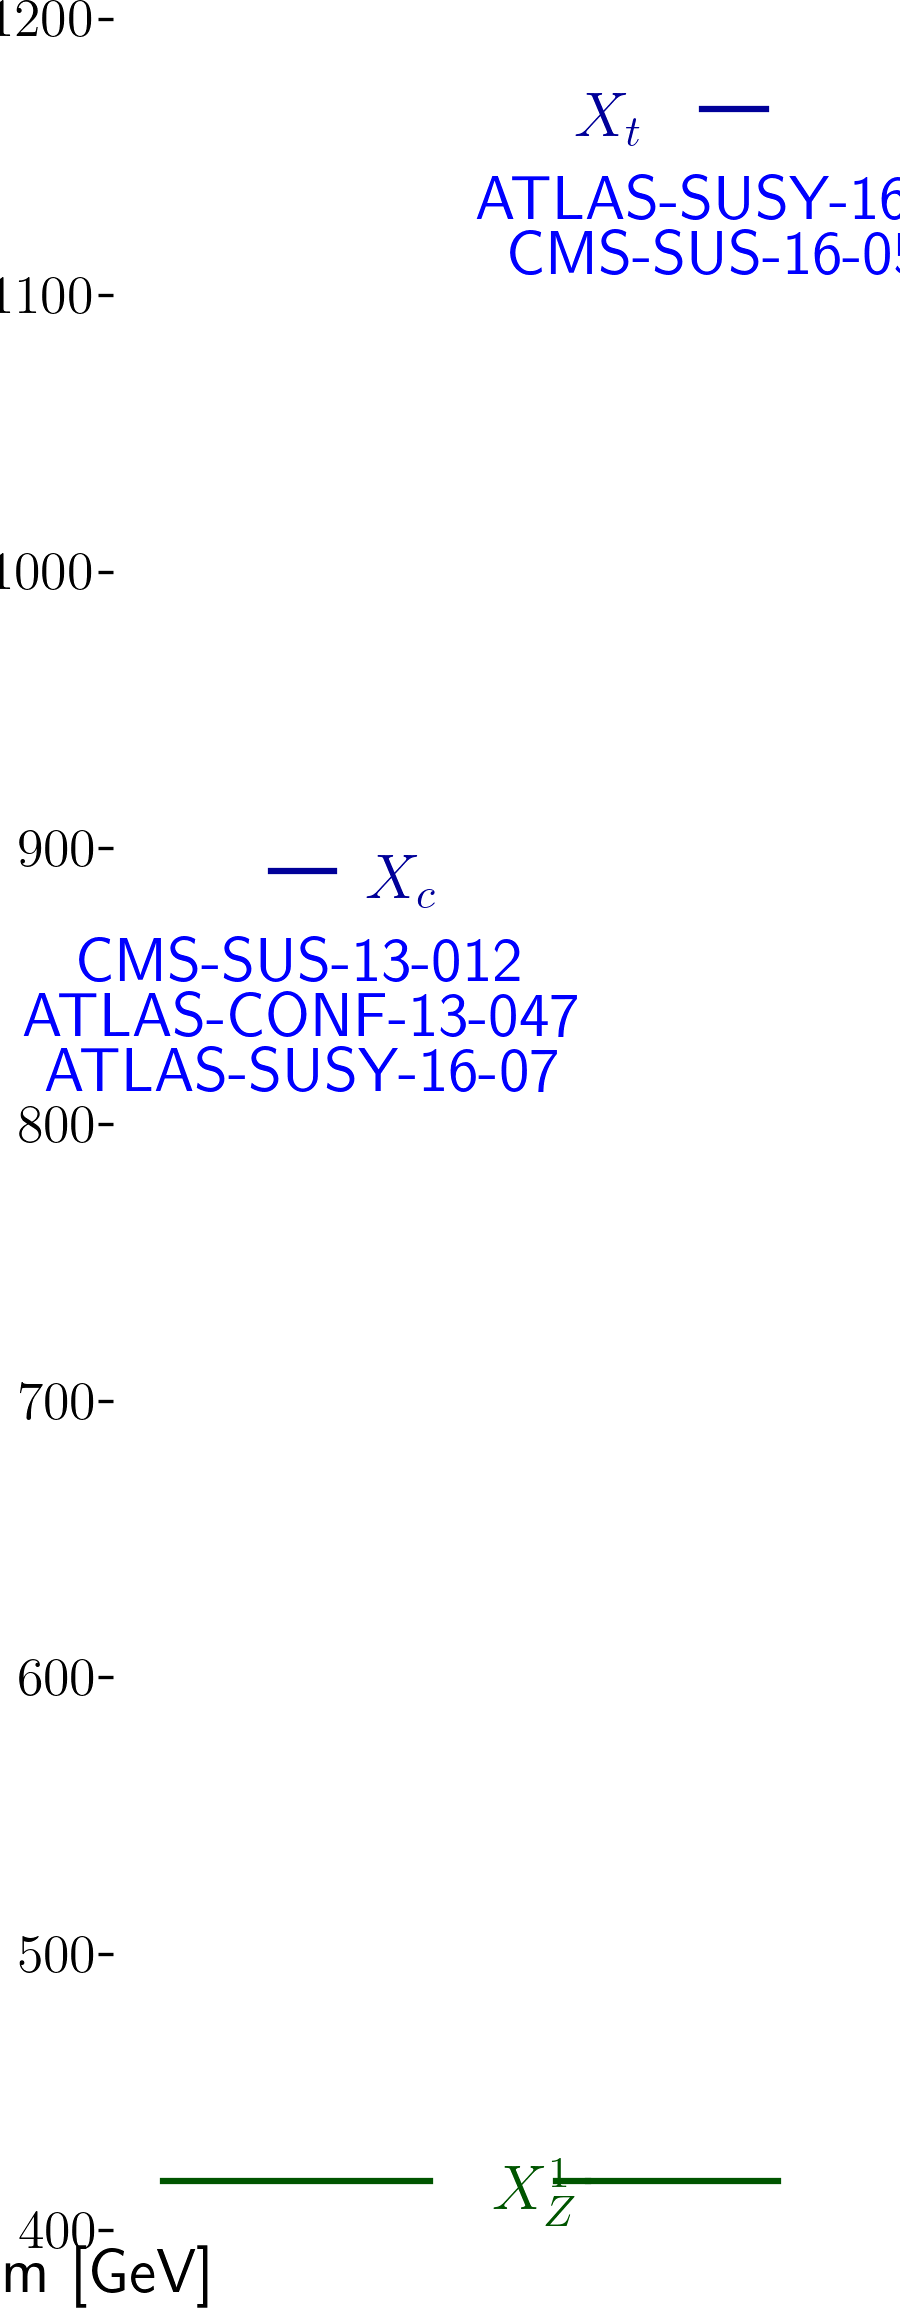
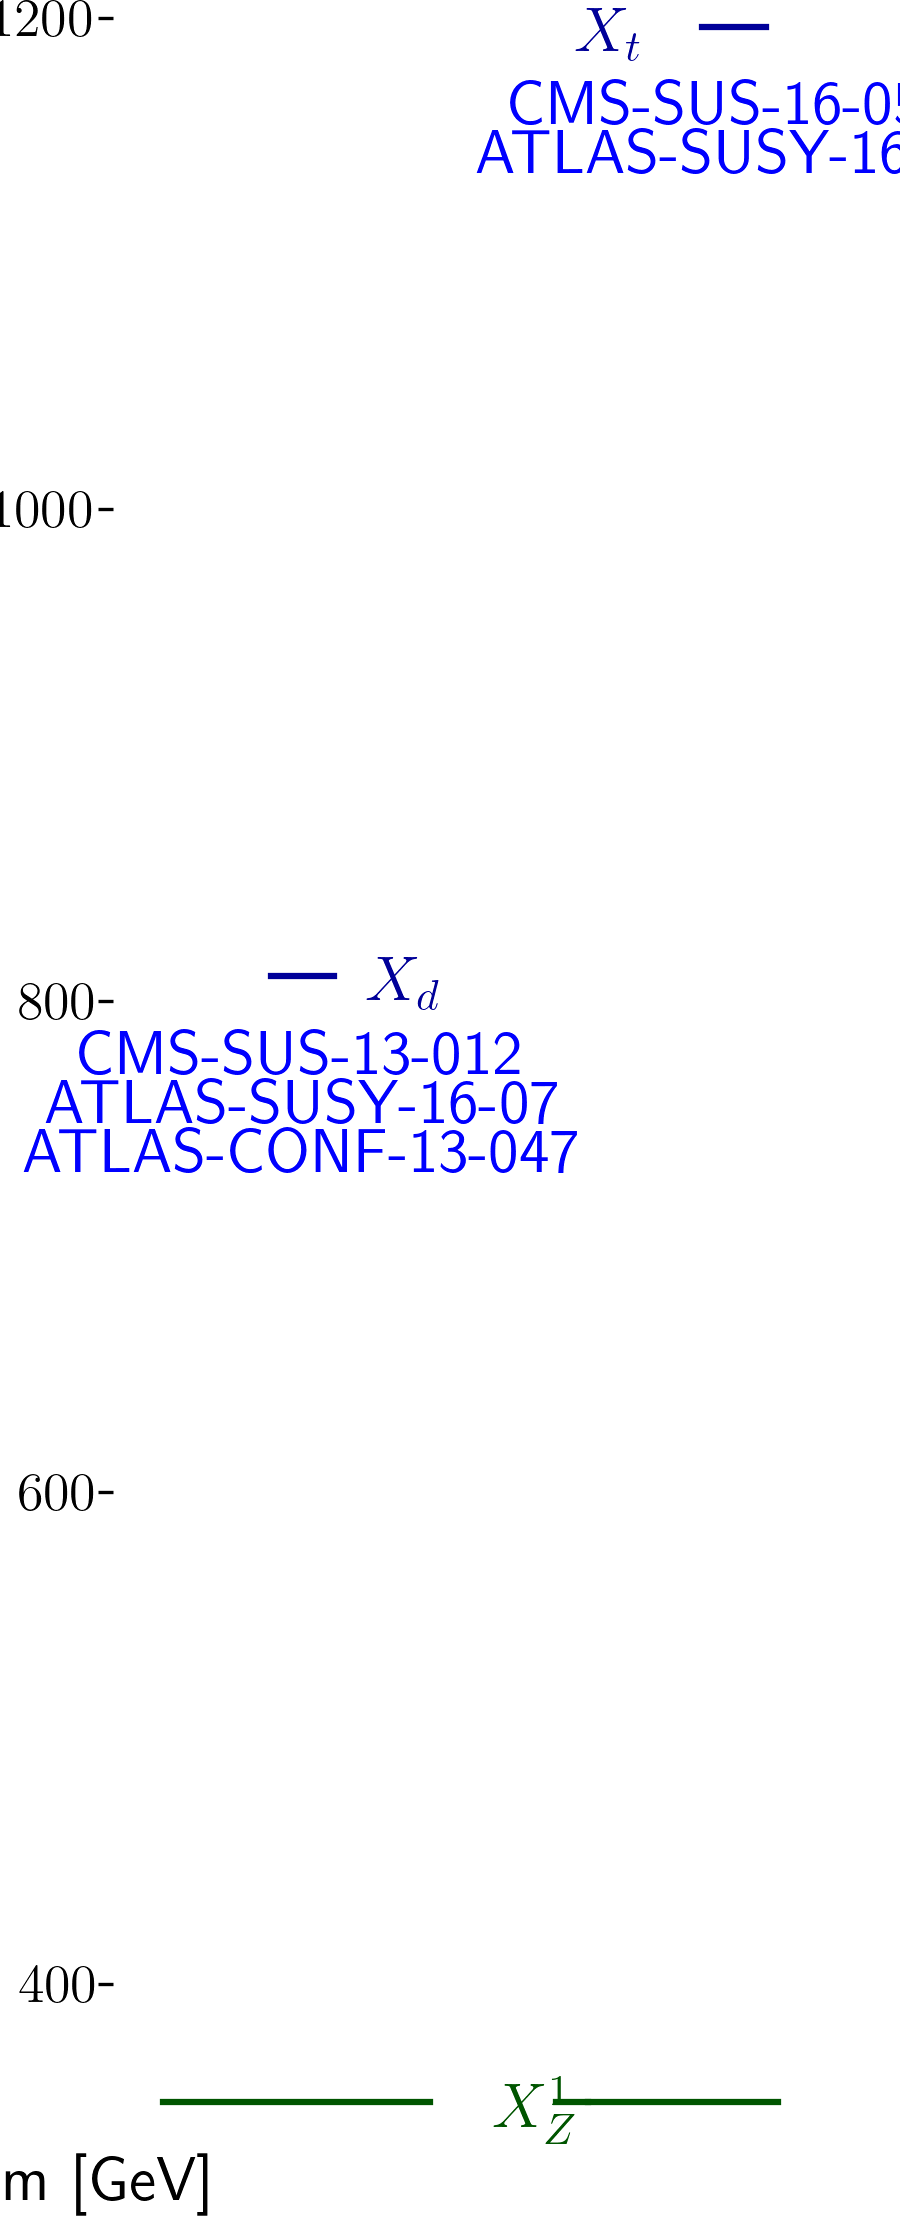
automated update by plotHiscore.py

diff --git a/protomodels/latest/index.html b/protomodels/latest/index.html
@@ -1,29 +1,28 @@
 <html>
 <body>
 <center>
-<table><td><h1>Current best protomodel: K=5.62</h1><td><img height=60px src=https://smodels.github.io/pics/banner.png></table>
+<table><td><h1>Current best protomodel: K=6.43</h1><td><img height=60px src=https://smodels.github.io/pics/banner.png></table>
 </center>
-<b><a href=./hiscore.slha>ProtoModel</a> <a href=./pmodel.py>(dict)</a> produced with <a href=https://smodels.github.io/docs/Validation123>database v1.2.3</a>, combination strategy <a href=./matrix_aggressive.png>aggressive</a> in walker 44 step 40.</b> K plots for: <a href=./M1000022.png?4390431>X<sub>Z</sub><sup>1</sup></a>, <a href=./M1000001.png?4390431>X<sub>d</sub></a>. HPD plots for: <a href=./llhd1000001.png?4390431>X<sub>d</sub></a>. SSM plots for: <a href=./ssm_-1000006_1000006.png?4390431>(x&#772;<sub>t</sub>,X<sub>t</sub>)</a><br>
+<b><a href=./hiscore.slha>ProtoModel</a> <a href=./pmodel.py>(dict)</a> produced with <a href=https://smodels.github.io/docs/Validation123>database v1.2.3</a>, combination strategy <a href=./matrix_aggressive.png>aggressive</a> in walker 26 step 16.</b> K plots for: <a href=./M1000022.png?4397320>X<sub>Z</sub><sup>1</sup></a>, <a href=./M1000001.png?4397320>X<sub>d</sub></a>. HPD plots for: <a href=./llhd1000001.png?4397320>X<sub>d</sub></a>. SSM plots for: <a href=./ssm_-1000006_1000006.png?4397320>(x&#772;<sub>t</sub>,X<sub>t</sub>)</a><br>
 <table width=80%>
 <tr><td>
-<br><b>28 predictions available. Highest r values are:</b><br><ul>
-<li><a href=http://cms-results.web.cern.ch/cms-results/public-results/publications/SUS-19-006/index.html>CMS-SUS-19-006</a>:T2 r=1.30, r<sub>exp</sub>=1.16<br>
-<li><a href=http://cms-results.web.cern.ch/cms-results/public-results/publications/SUS-16-033/index.html>CMS-SUS-16-033</a>:T2 r=1.25, r<sub>exp</sub>=0.87<br>
-<li><a href=http://cms-results.web.cern.ch/cms-results/public-results/publications/SUS-16-036/index.html>CMS-SUS-16-036</a>:T2 r=0.93, r<sub>exp</sub>=0.77<br>
-<li><a href=http://cms-results.web.cern.ch/cms-results/public-results/publications/SUS-19-006/index.html>CMS-SUS-19-006</a>:T2tt r=0.85, r<sub>exp</sub>=0.75<br>
-<li><a href=https://atlas.web.cern.ch/Atlas/GROUPS/PHYSICS/PAPERS/SUSY-2016-26/>ATLAS-SUSY-2016-26</a>:T2cc r=0.81, r<sub>exp</sub>=N/A<br>
+<br><b>27 predictions available. Highest r values are:</b><br><ul>
+<li><a href=http://cms-results.web.cern.ch/cms-results/public-results/publications/SUS-19-006/index.html>CMS-SUS-19-006</a>:T2 r=1.30, r<sub>exp</sub>=1.14<br>
+<li><a href=http://cms-results.web.cern.ch/cms-results/public-results/publications/SUS-16-033/index.html>CMS-SUS-16-033</a>:T2 r=1.29, r<sub>exp</sub>=0.86<br>
+<li><a href=http://cms-results.web.cern.ch/cms-results/public-results/publications/SUS-19-006/index.html>CMS-SUS-19-006</a>:T2tt r=1.17, r<sub>exp</sub>=1.10<br>
+<li><a href=http://cms-results.web.cern.ch/cms-results/public-results/publications/SUS-16-036/index.html>CMS-SUS-16-036</a>:T2 r=0.96, r<sub>exp</sub>=0.74<br>
+<li><a href=http://cms-results.web.cern.ch/cms-results/public-results/publications/SUS-16-051/index.html>CMS-SUS-16-051</a>:T2tt r=0.85, r<sub>exp</sub>=0.56<br>
 </ul>
 <td><br><b>Contributions per analysis:</b><br>
 <ul>
-<li> <a href=>CMS-SUS-16-033</a>: 33%
-<li> <a href=https://atlas.web.cern.ch/Atlas/GROUPS/PHYSICS/CONFNOTES/ATLAS-CONF-2013-047/>ATLAS-CONF-2013-047</a>: 32%
-<li> <a href=https://twiki.cern.ch/twiki/bin/view/CMSPublic/PhysicsResultsSUS13012>CMS-SUS-13-012</a>: 30%
-<li> <a href=https://atlas.web.cern.ch/Atlas/GROUPS/PHYSICS/PAPERS/SUSY-2016-07/>ATLAS-SUSY-2016-07</a>: 5%
-<td><img width=600px src=./texdoc.png?1597390431>
-<br><font size=-1>Last updated: Fri Aug 14 09:33:51 2020</font>
+<li> <a href=https://atlas.web.cern.ch/Atlas/GROUPS/PHYSICS/PAPERS/SUSY-2016-07/>ATLAS-SUSY-2016-07</a>: 2335%
+<li> <a href=https://atlas.web.cern.ch/Atlas/GROUPS/PHYSICS/CONFNOTES/ATLAS-CONF-2013-047/>ATLAS-CONF-2013-047</a>: -995%
+<li> <a href=>CMS-SUS-16-033</a>: -1240%
+<td><img width=600px src=./texdoc.png?1597397320>
+<br><font size=-1>Last updated: Fri Aug 14 11:28:40 2020</font>
 </table><table style="width:80%">
-<td width=45%><img height=580px src=./ruler.png?1597390431><td width=55%><img height=380px src=./decays.png?1597390431>
-<font size=-3><iframe type="text/html" height="220px" width="100%s" frameborder="0" src="./rawnumbers.html?1597390431"></iframe></font>
+<td width=45%><img height=580px src=./ruler.png?1597397320><td width=55%><img height=380px src=./decays.png?1597397320>
+<font size=-3><iframe type="text/html" height="220px" width="100%s" frameborder="0" src="./rawnumbers.html?1597397320"></iframe></font>
 </table>
 </body>
 </html>

diff --git a/protomodels/latest/rawnumbers.html b/protomodels/latest/rawnumbers.html
@@ -1,9 +1,9 @@
 <table>
 <tr><th>Analysis Name</th><th>Type</th><th>Dataset</th><th>Observed</th><th>Expected</th><th>Approx &sigma;</th><th>Particles</th>
 </tr>
-<tr><td><a href=https://atlas.web.cern.ch/Atlas/GROUPS/PHYSICS/PAPERS/SUSY-2016-07/>ATLAS-SUSY-2016-07</a></td><td>em</td> <td>2j_Meff_1200</td><td>611</td><td>526 +/- 31</td><td style="text-align:right">2.2 &sigma;</td><td style="text-align:right">X<sub>c</sub></td></tr>
+<tr><td><a href=https://atlas.web.cern.ch/Atlas/GROUPS/PHYSICS/PAPERS/SUSY-2016-07/>ATLAS-SUSY-2016-07</a></td><td>em</td> <td>2j_Meff_1200</td><td>611</td><td>526 +/- 31</td><td style="text-align:right">2.2 &sigma;</td><td style="text-align:right">X<sub>d</sub></td></tr>
 <tr><td><a href=https://atlas.web.cern.ch/Atlas/GROUPS/PHYSICS/PAPERS/SUSY-2016-16/>ATLAS-SUSY-2016-16</a></td><td>em</td> <td>tN_high</td><td>8</td><td>3.8 +/- 1</td><td style="text-align:right">1.9 &sigma;</td><td style="text-align:right">X<sub>t</sub></td></tr>
-<tr><td><a href=http://cms-results.web.cern.ch/cms-results/public-results/publications/SUS-16-050/index.html>CMS-SUS-16-050</a></td><td>ul</td> <td>-</td><td> 5.3 fb </td><td> 3.1 fb</td><td style="text-align:right">1.4 &sigma;</td><td style="text-align:right">X<sub>t</sub></td></tr>
-<tr><td><a href=https://atlas.web.cern.ch/Atlas/GROUPS/PHYSICS/CONFNOTES/ATLAS-CONF-2013-047/>ATLAS-CONF-2013-047</a></td><td>em</td> <td>E Loose</td><td>166</td><td>113 +/- 21</td><td style="text-align:right">2.3 &sigma;</td><td style="text-align:right">X<sub>c</sub></td></tr>
-<tr><td><a href=https://twiki.cern.ch/twiki/bin/view/CMSPublic/PhysicsResultsSUS13012>CMS-SUS-13-012</a></td><td>ul</td> <td>-</td><td> 32.1 fb </td><td> 19.4 fb</td><td style="text-align:right">1.3 &sigma;</td><td style="text-align:right">X<sub>c</sub></td></tr>
+<tr><td><a href=http://cms-results.web.cern.ch/cms-results/public-results/publications/SUS-16-050/index.html>CMS-SUS-16-050</a></td><td>ul</td> <td>-</td><td> 4.9 fb </td><td> 2.8 fb</td><td style="text-align:right">1.5 &sigma;</td><td style="text-align:right">X<sub>t</sub></td></tr>
+<tr><td><a href=https://atlas.web.cern.ch/Atlas/GROUPS/PHYSICS/CONFNOTES/ATLAS-CONF-2013-047/>ATLAS-CONF-2013-047</a></td><td>em</td> <td>E Loose</td><td>166</td><td>113 +/- 21</td><td style="text-align:right">2.3 &sigma;</td><td style="text-align:right">X<sub>d</sub></td></tr>
+<tr><td><a href=https://twiki.cern.ch/twiki/bin/view/CMSPublic/PhysicsResultsSUS13012>CMS-SUS-13-012</a></td><td>ul</td> <td>-</td><td> 39.7 fb </td><td> 24.3 fb</td><td style="text-align:right">1.2 &sigma;</td><td style="text-align:right">X<sub>d</sub></td></tr>
 </table>

diff --git a/protomodels/latest/pmodel.py b/protomodels/latest/pmodel.py
@@ -1,1 +1,1 @@
-{'masses': {1000022: 407.658, 1000004: 881.685, 1000006: 1157.271}, 'ssmultipliers': {(1000022, 1000022): 132.291, (1000004, 1000004): 1.294, (-1000004, 1000004): 1.587, (-1000004, -1000004): 1.587, (1000004, 1000022): 2.013, (-1000004, 1000022): 2.013, (1000006, 1000006): 1.002, (-1000006, 1000006): 1.002, (-1000006, -1000006): 1.002, (1000006, 1000022): 1.002, (-1000006, 1000022): 1.002, (1000004, 1000006): 1.002, (-1000006, 1000004): 1.002, (-1000004, 1000006): 1.002, (-1000006, -1000004): 1.002}, 'decays': {1000022: {}, 1000004: {1000022: 1.0}, 1000006: {1000022: 1.0}}, 'timestamp': 'Fri Aug 14 09:33:41 2020', 'Z': 3.106, 'K': 5.62, 'step': 40, 'codever': '1.0', 'dbver': '1.2.3'}
+{'masses': {1000022: 341.833, 1000006: 1186.337, 1000001: 799.997}, 'ssmultipliers': {(1000022, 1000022): 7.838, (1000006, 1000006): 1.463, (-1000006, 1000006): 1.463, (-1000006, -1000006): 1.463, (1000006, 1000022): 1.463, (-1000006, 1000022): 1.463, (1000001, 1000001): 0.996, (-1000001, 1000001): 0.996, (-1000001, -1000001): 0.996, (1000001, 1000022): 0.996, (-1000001, 1000022): 0.996, (1000001, 1000006): 0.996, (-1000001, 1000006): 0.996, (-1000006, 1000001): 0.996, (-1000006, -1000001): 0.996}, 'decays': {1000022: {}, 1000006: {1000022: 1.0}, 1000001: {1000022: 1.0}}, 'timestamp': 'Fri Aug 14 11:28:30 2020', 'Z': 3.203, 'K': 6.433, 'step': 16, 'codever': '1.0', 'dbver': '1.2.3'}
